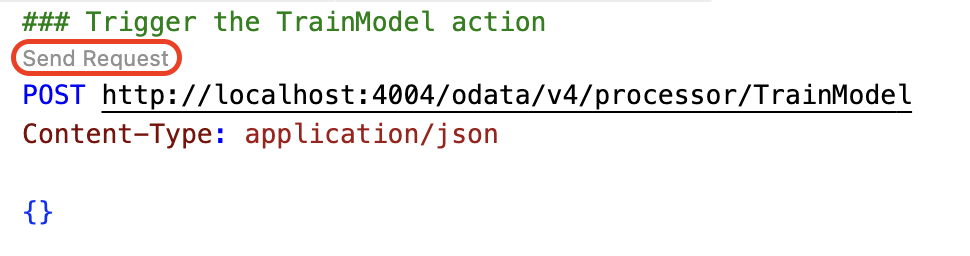
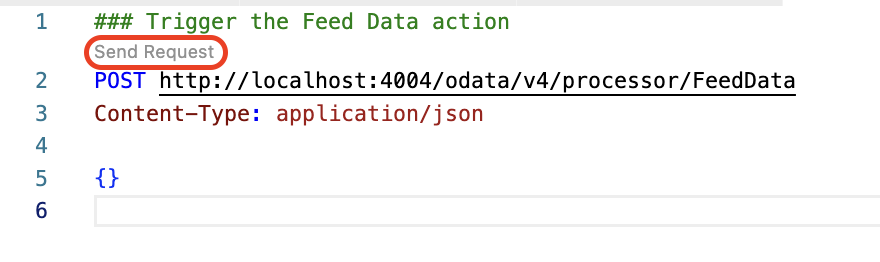
Updating feeding data

diff --git a/build-code-with-ai-capability/document/extend-service.md b/build-code-with-ai-capability/document/extend-service.md
@@ -2,11 +2,11 @@
 
 ## Prerequisites
 
-Add dependencies required for SAP AI SDK, and setting up the data for productive usage by following [Pre-requiste](./prerequisites.md)
+Add dependencies required for SAP Cloud SDK for AI, and setting up the data for productive usage by following [Add dependencies for SAP Cloud SDK for AI](./prerequisites.md)
 
 ## Extend the Incident Management Application
 
-1. Under `srv`, create a new file called `incidents.csv`, copy the contents from [incidents.csv](../csv/incidents.csv)
+1. Under `srv`, create a new file called `incidents.csv`, copy the contents from [incidents.csv](https://raw.githubusercontent.com/SAP-samples/btp-end-to-end-scenario-use-cases/refs/heads/main/build-code-with-ai-capability/csv/incidents.csv)
 
 2. Under `srv`, create a new file called `feed-data.js` and paste the content from below.
 
@@ -17,6 +17,7 @@ const resourceGroup = 'default';
 const embeddingModelName = 'text-embedding-ada-002';
 const { AzureOpenAiEmbeddingClient } = require("@sap-ai-sdk/langchain");
  
+
 async function loadCSV(filePath) {
   return new Promise((resolve, reject) => {
     const results = [];
@@ -28,7 +29,7 @@ async function loadCSV(filePath) {
   });
 }
  
-async function trainModel() {
+async function feedData() {
   try {
     const db = await cds.connect.to("db");
     const { vectorEmbeddings } = db.entities;
@@ -58,17 +59,15 @@ async function trainModel() {
       console.log(`✅ Incident ${ID} stored.`);
     }
  
-    return "Training completed successfully.";
+    return "Feeding Data completed successfully.";
   } catch (e) {
-    console.error("❌ Training error:", e);
+    console.error("❌ Feeding error:", e);
     return `Error: ${e.message}`;
   }
 }
  
-module.exports = { trainModel };
-
+module.exports = { feedData };
 ```
-
 > [!Tip]
 > This file feeds data
 
@@ -76,9 +75,6 @@ module.exports = { trainModel };
 
 ```js
 service ProcessorService {
-    @readonly
-    entity Customers as projection on my.Customers;
-
     @odata.draft.enabled
     entity Incidents as projection on my.Incidents actions {
         action acceptsolution(input1: Boolean @title : 'Did the recommended solution worked for you ?') returns String;
@@ -89,8 +85,10 @@ service ProcessorService {
     entity vectorEmbeddings as projection on my.vectorEmbeddings  excluding {
         embedding
     };
-
-    action TrainModel() returns String;
+ 
+    @readonly
+    entity Customers as projection on my.Customers;
+    action FeedData() returns String;
 }
 ```
 
@@ -101,7 +99,7 @@ service ProcessorService {
 
 ```js
 const cds = require('@sap/cds');
-const { trainModel } = require("./feed-data");
+const { feedData } = require("./feed-data");
 const natural = require('natural');
 const tokenizer = new natural.WordTokenizer();
 const {Incidents, vectorEmbeddings} = cds.entities;
@@ -114,7 +112,7 @@ class ProcessorService extends cds.ApplicationService {
   /** Registering custom event handlers */
   async init() {
     this.after("CREATE", "Incidents", (req) => this.getRagResponse(req));
-    this.on("TrainModel", trainModel);
+    this.on("FeedData", feedData);
  
     this.on('acceptsolution', async (req) => {
       if (!req.data.input1) return req.reject(400, "Solution acceptance is required.");
@@ -239,6 +237,7 @@ class ProcessorService extends cds.ApplicationService {
 }
  
 module.exports = { ProcessorService };
+ 
 ```
 
 > [!Tip]
@@ -247,8 +246,8 @@ module.exports = { ProcessorService };
 5. In the root project, create a new file called `request.http` and paste the content below.
 
 ```http
-### Trigger the TrainModel action
-POST http://localhost:4004/odata/v4/processor/TrainModel
+### Trigger the Feed Data action
+POST http://localhost:4004/odata/v4/processor/FeedData
 Content-Type: application/json
  
 {}
@@ -482,9 +481,6 @@ annotate service.Solutions with @(
 
 1. In the root project, create a new file called `.env` and add the below content
 
-```sh
-AICORE_SERVICE_KEY='{ "clientid": "sb-6b774987-cafe-486f-9be1-d15b70f04924!b554099|aicore!b540", "clientsecret": "b196aa17-c841-42cd-a92f-e8e3ba8d5747$NAbEw5BsvtexpN-41R87hu3HiVc7xqU4rOGyc03Zyek=", "url": "https://hands-on-build-code-2b7rbjie.authentication.eu10.hana.ondemand.com", "serviceurls": {"AI_API_URL": "https://api.ai.prod.eu-central-1.aws.ml.hana.ondemand.com" }}'
-```
 
 ## Next Step
 

diff --git a/build-code-with-ai-capability/document/prerequisites.md b/build-code-with-ai-capability/document/prerequisites.md
@@ -1,6 +1,6 @@
-# Prerequisites
+# Add dependencies for SAP Cloud SDK for AI 
 
-## Add Dependencies of SAP AI SDK
+## Add and Install required packages
 
 1. Open Package.json and add the below dependencies
 
@@ -62,29 +62,50 @@ cf login --sso
 
 ## Setup initial data for Incident Management Application
 
-1. Under `test/data` folder, delete the `sap.capire.incidents-vectorEmbeddings.csv` file, as we will be feeding the data in later stage.
+1. Open `schema.cds` and add the following code snippets:
+
+    1. Under `Incidents` entity, add the `solutions`.
+
+        ```sh
+        solutions    : Composition of many {
+            key ID    : UUID;
+            confidence : String;
+            solution   : String;
+        };
+        ```
+
+    2. Add a new entity called `vectorEmbeddings`.
+
+        ```sh
+        entity vectorEmbeddings : cuid, managed{
+            metadata   : LargeString;
+            text_chunk : LargeString;
+            embedding  : Vector(1536);
+            solution   : LargeString;
+        }
+        ```
 
 2. The sample data generated in the previous steps, creates the **data** folder in the **test** folder. To use the data for productive usgae, move the **data** folder to the **db** folder. Open the terminal, and run the following command to move the csv files.
 
-```sh
-mv test/data db/data
-```
+    ```sh
+    mv test/data db/data
+    ```
 
 3. Do the productive build for your application, by running the below command in the terminal.
 
-```sh
-cds build --production
-```
+    ```sh
+    cds build --production
+    ```
 
 4. Deploy the csv files to the hana database, by running the below command in the terminal.
 
-```sh
-cds deploy --to hana
-```
+    ```sh
+    cds deploy --to hana
+    ```
  
-> [!Note]
-> It might take few seconds to finish the deployment to hana, once done, you get the successful deployment message.
-![success](../images/extend-service/successful-deployment.png)
+    > [!Note]
+    > It might take few seconds to finish the deployment to hana, once done, you get the successful deployment message.
+    ![success](../images/extend-service/successful-deployment.png)
 
 ## Create service binding to SAP AI Core
 

diff --git a/build-code-with-ai-capability/document/create-data-entities.md b/build-code-with-ai-capability/document/create-data-entities.md
@@ -30,11 +30,6 @@ customer     : Association to Customers;
 title        : String  @title : 'Title';
 urgency        : Association to Urgency default 'M';
 status         : Association to Status default 'N';
- solutions    : Composition of many {
-    key ID    : UUID;
-    confidence    : String;
-    solution   : String;
-};
 conversation  : Composition of many {
     key ID    : UUID;
     timestamp : type of managed:createdAt;
@@ -85,15 +80,6 @@ key code: String enum {
 };
 }
 
-entity vectorEmbeddings : cuid, managed{
-    metadata   : LargeString;
-    text_chunk : LargeString;
-    embedding  : Vector(1536);
-    solution   : LargeString;
-}
-
- 
-
 type EMailAddress : String;
 type PhoneNumber : String;
 ```
@@ -110,8 +96,6 @@ type PhoneNumber : String;
 > **Status**: Defines various states an incident can be in like New (N), In Process(I) etc.
 >
 > **Urgency**: Defines different urgency levels for incidents High(H), Medium(M) and Low (L).
->
-> **vectorEmbeddings**: 
 >
 > **Key CAP features covered in the model**
 >

diff --git a/build-code-with-ai-capability/document/enhance-sample-data.md b/build-code-with-ai-capability/document/enhance-sample-data.md
@@ -32,7 +32,7 @@ Do not generate name.The data should be structured in CSV format, maintaining co
 
 4. Joule will create list of .csv files that contain sample data as per the provided schema. Choose **Accept**.
 
-    ![accept-gen-data](../images/extend-service/test-data.png)
+    ![accept-gen-data](../../build-code/images/create-data-entities/schema-storyboard.png)
 
 5. All the generated .csv files will be saved in the **test/data** folder of your project.
 

diff --git a/build-code-with-ai-capability/README.md b/build-code-with-ai-capability/README.md
@@ -42,7 +42,7 @@ ACME is a popular Electronics company. ACME hires call center support representa
 
 ## Exercise 2: Add AI Capabilities using SAP AI SDK
 
-1. [Prerequisites](./document/prerequisites.md)
+1. [Add dependencies for SAP Cloud SDK for AI ](./document/prerequisites.md)
 2. [Extend the Incident Management Application](./document/extend-service.md)
 2. [Test the Scenario End to End](./document/e2e-testing.md)
 

diff --git a/build-code-with-ai-capability/document/e2e-testing.md b/build-code-with-ai-capability/document/e2e-testing.md
@@ -20,7 +20,7 @@ cds watch --profile hybrid
 
 3. Once completed, you will see the Response as 200.
 
-    ![response](../images/extend-service/success-http.png)
+    to be updated.
 
 4. Go back to the terminal where the application is running, click on the url where the localhost is running
 
